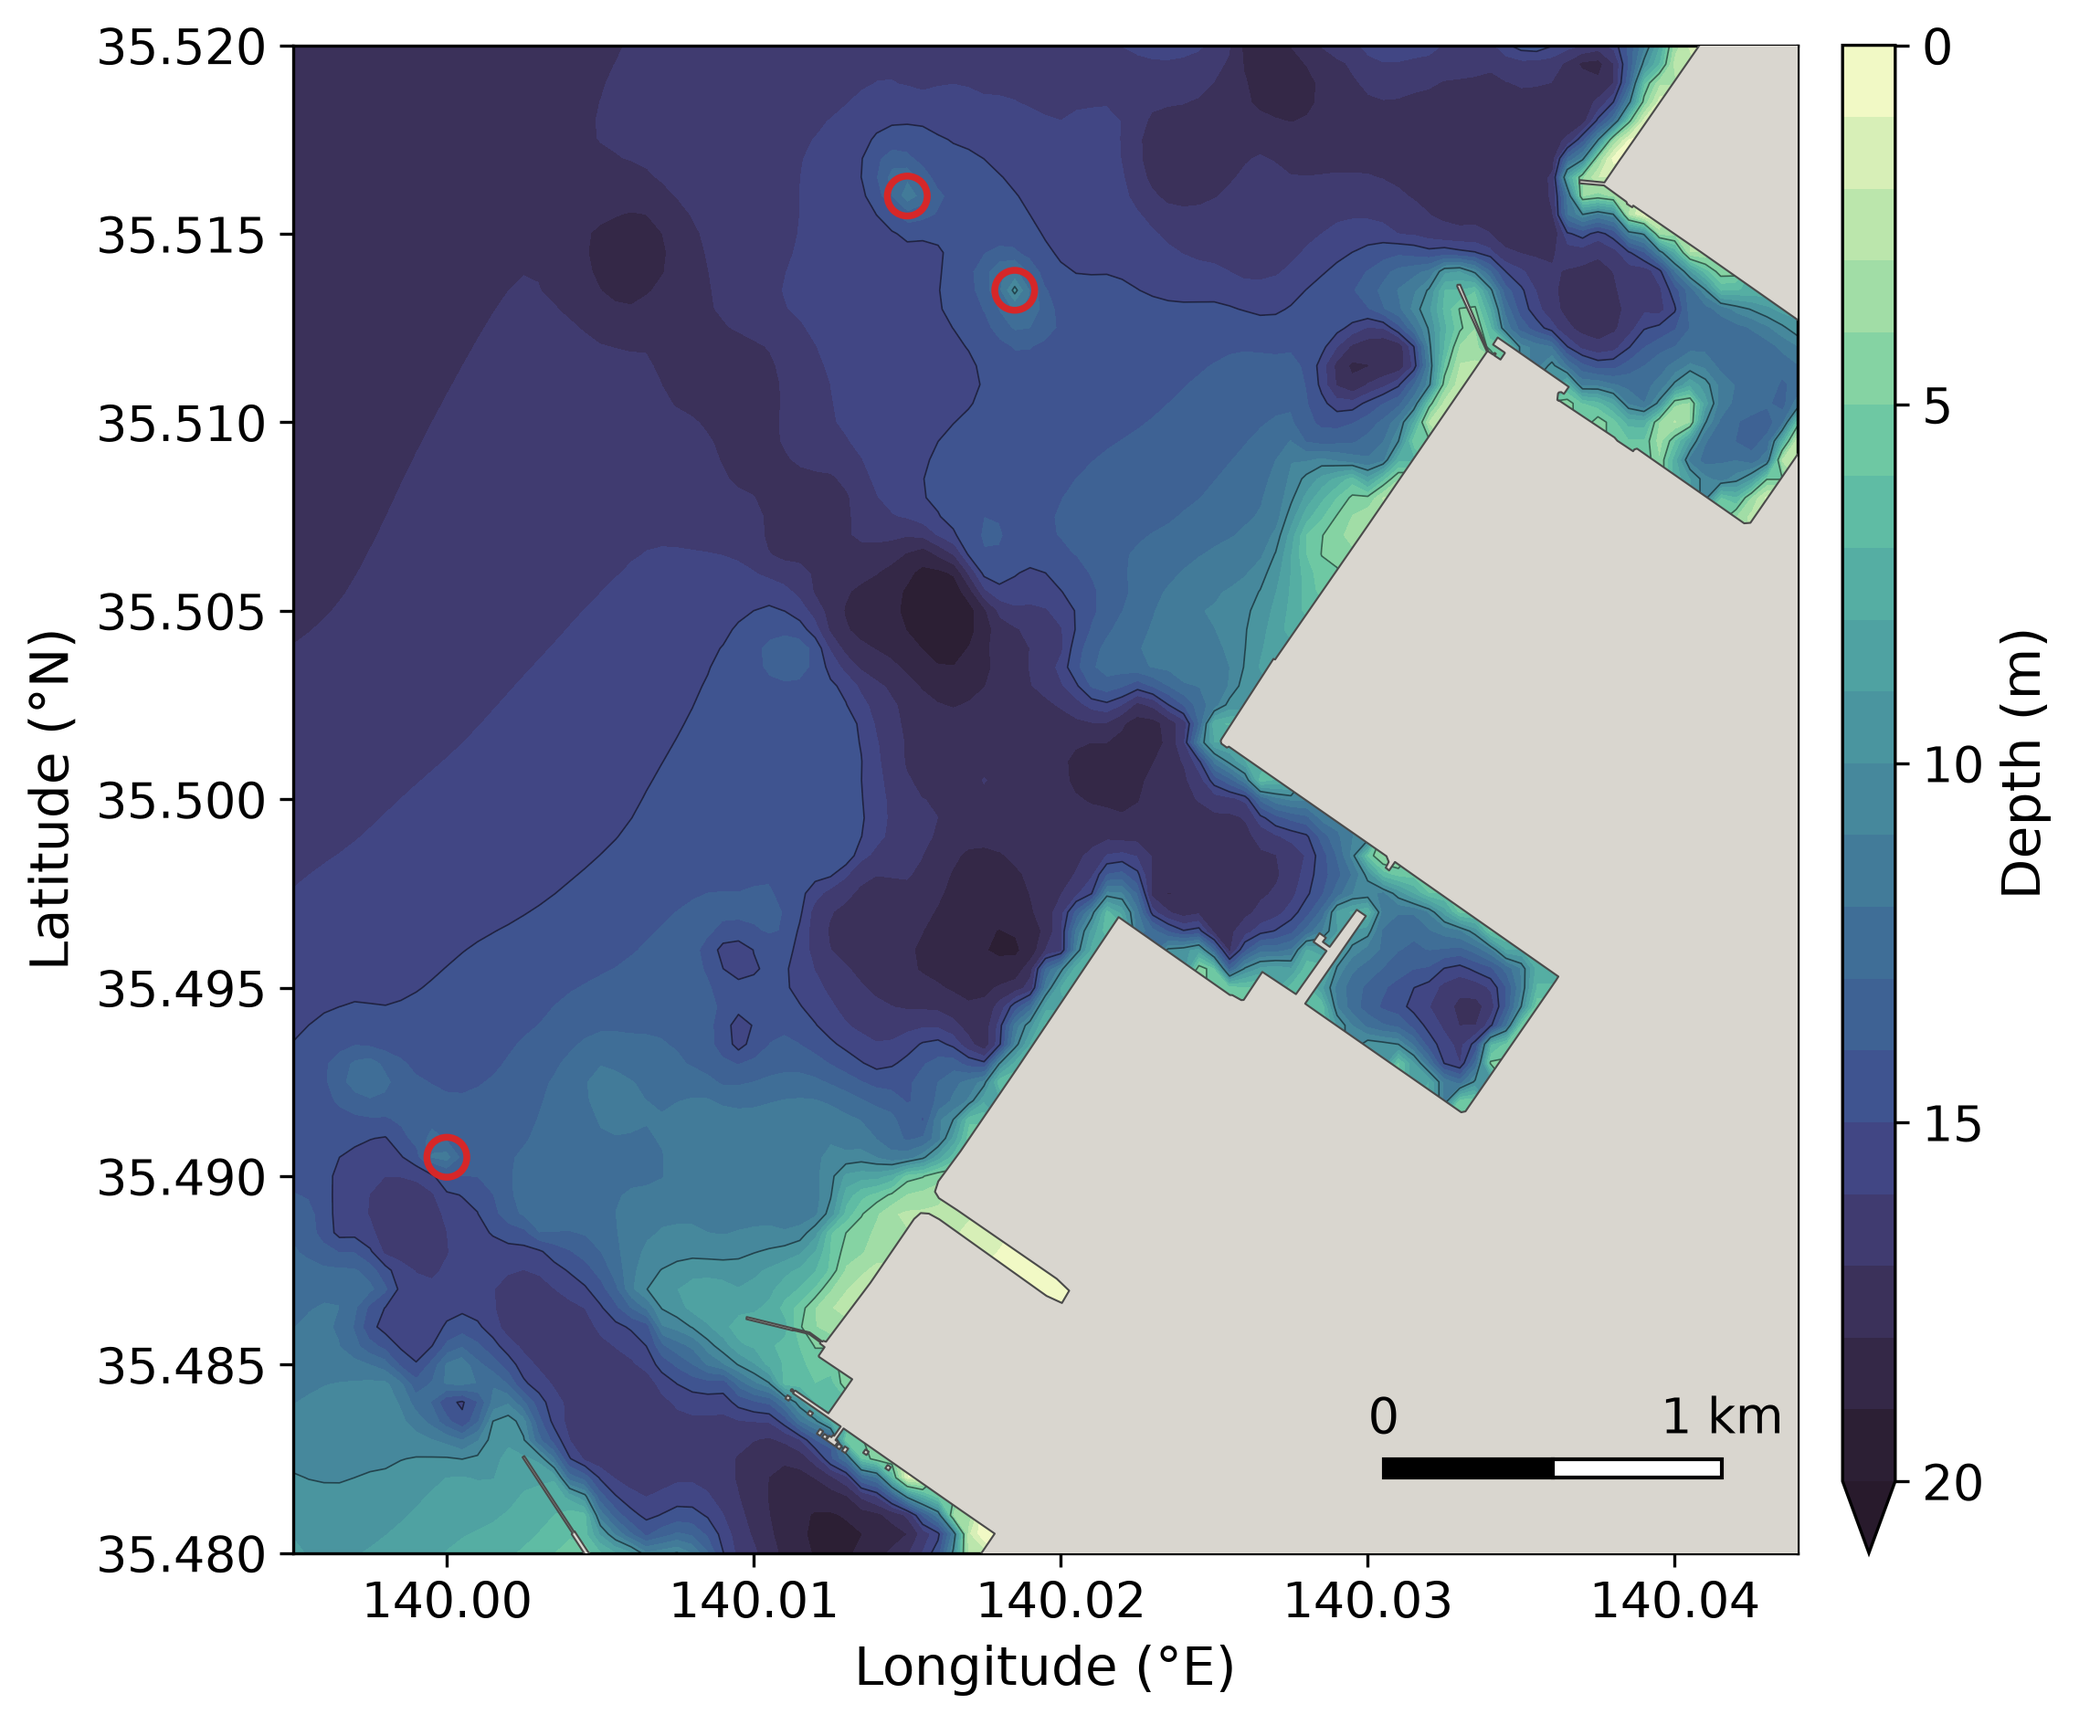
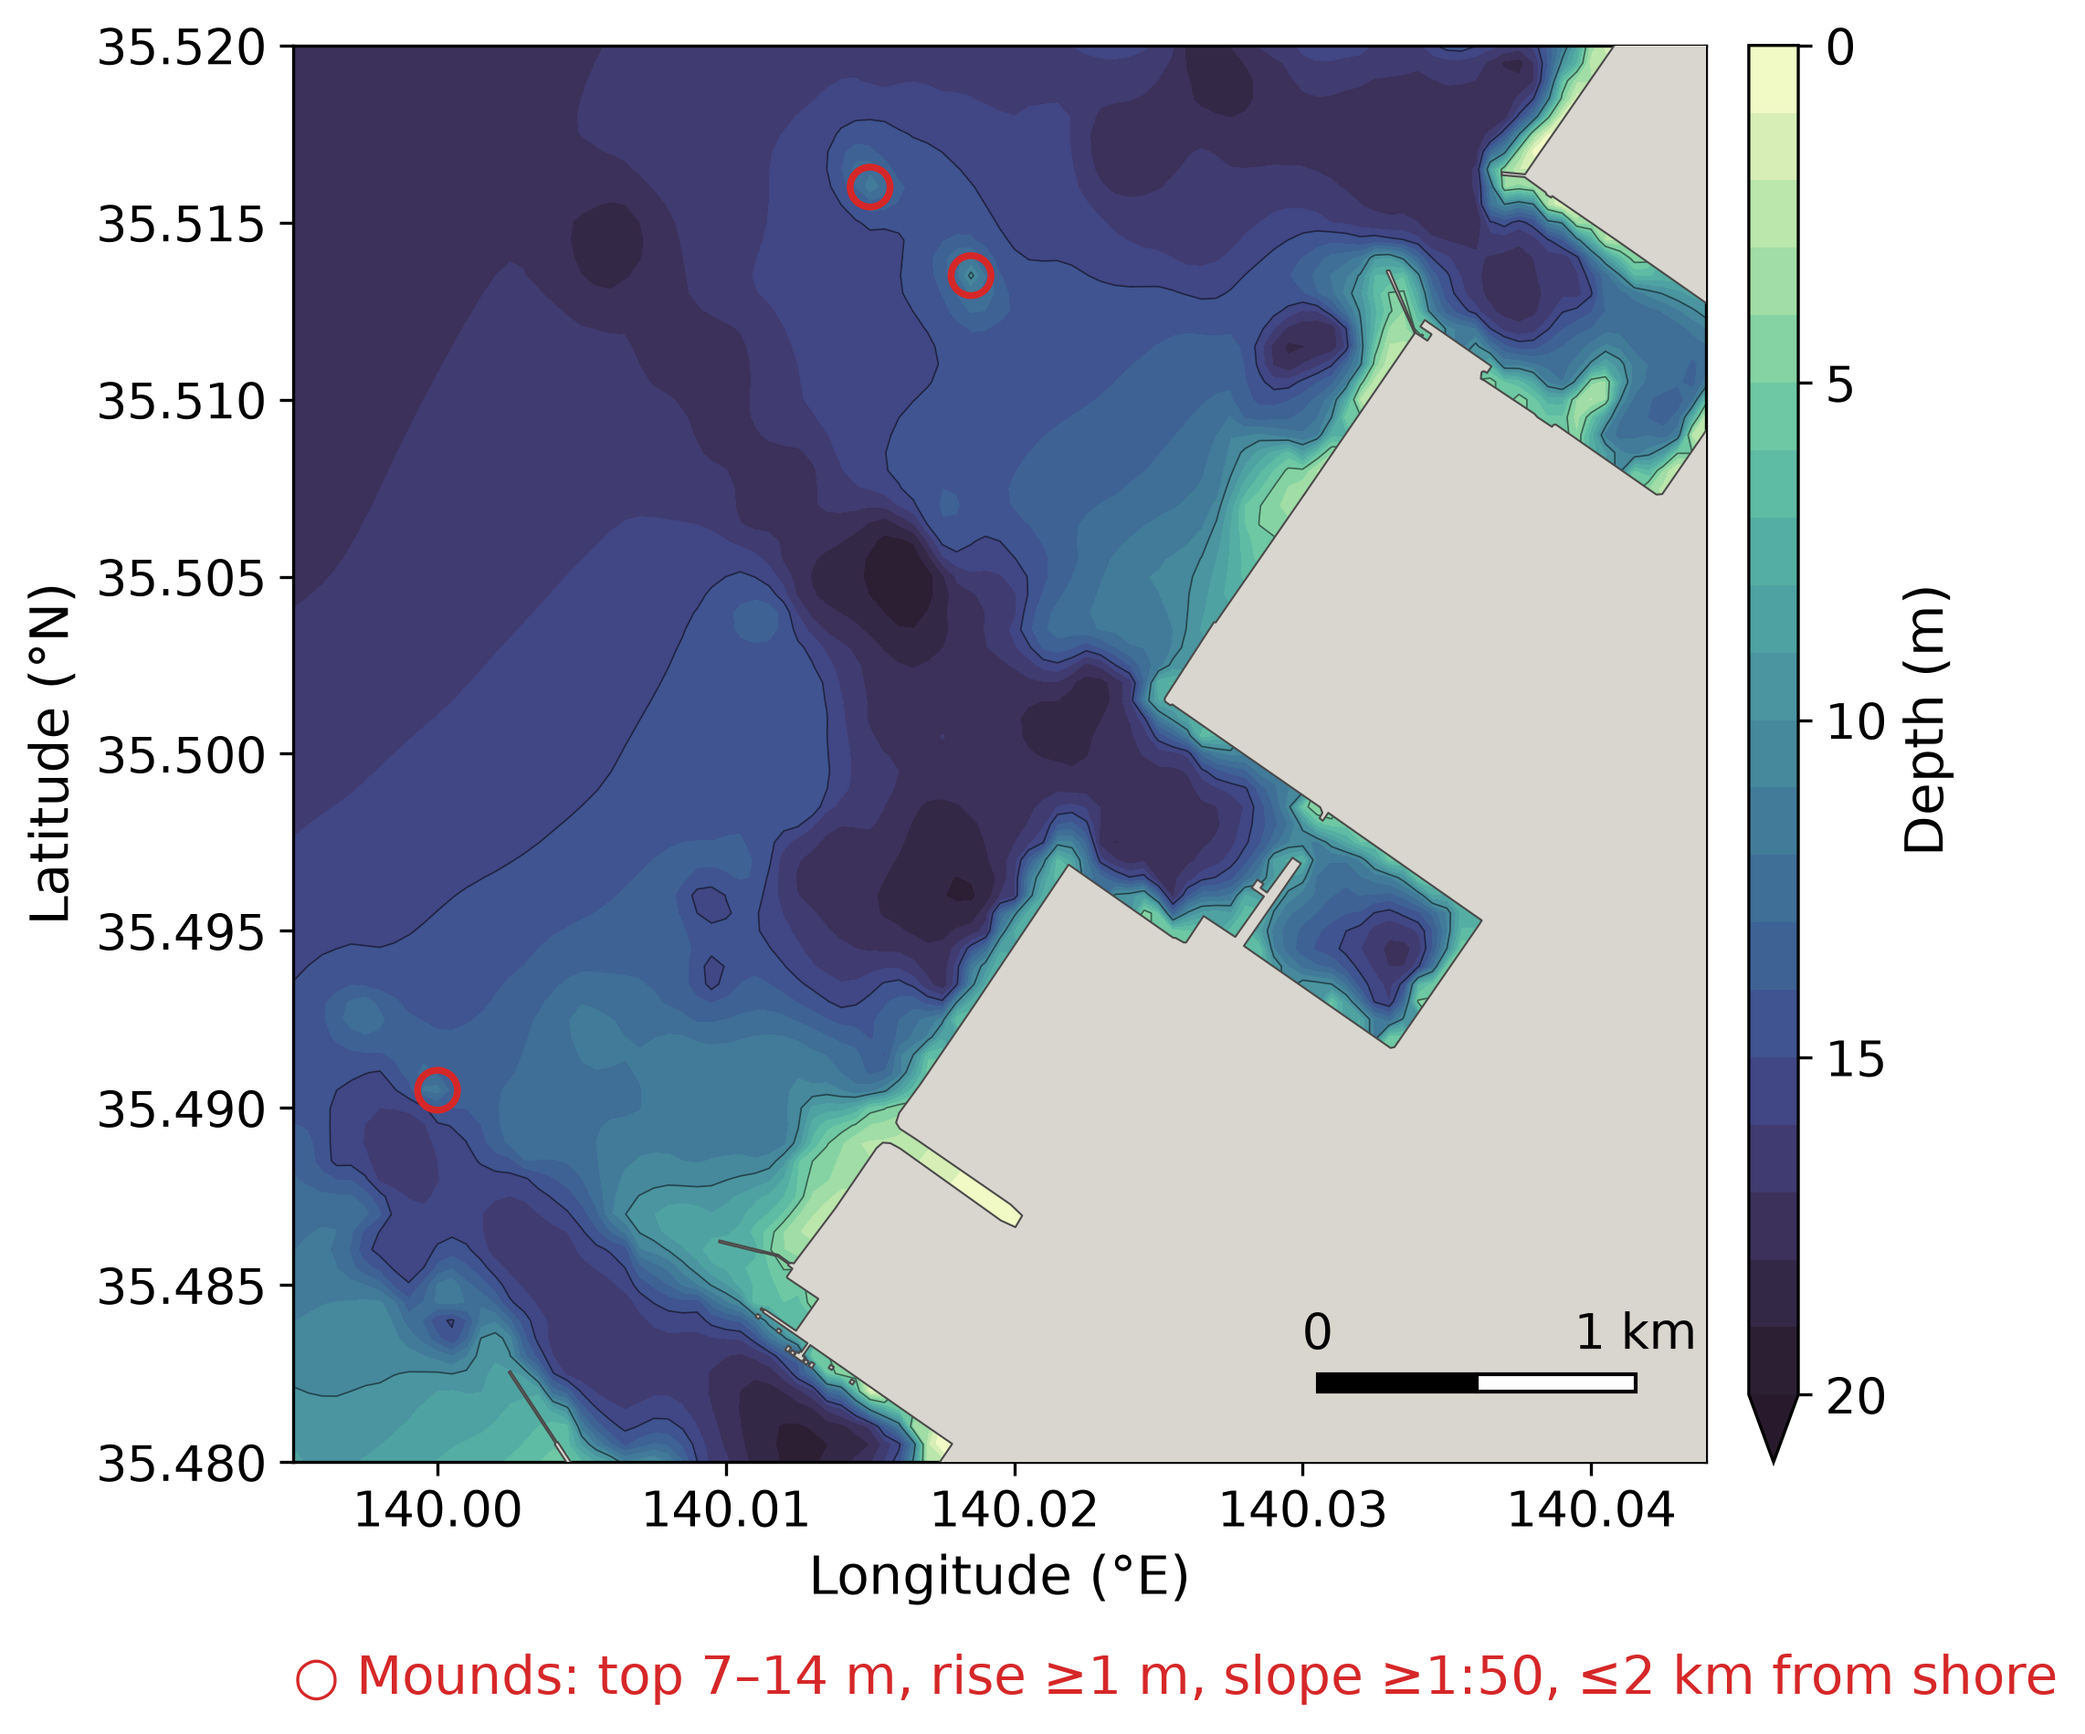
Mound criteria written under the map by default (--no-mound-label to omit)
One short English line in the mound colour at the label font size, built from
the arguments (depth range, rise, slope, width if given, shore distance).

Claude-Session: https://claude.ai/code/session_01MhU6iDzaQKBG9cKa3nrSvL

diff --git a/scripts/plot_depth_map.py b/scripts/plot_depth_map.py
@@ -87,6 +87,9 @@ def main() -> int:
     # jsasaki 2026-10-24: owner: steep mounds only (sandy tops in a muddy seabed)
     ap.add_argument("--mound-min-slope", type=float, default=0.0,
                     help="minimum mean flank slope = prominence / (base width / 2) (m/m)")
+    # jsasaki 2026-10-24: owner: criteria text under the map by default
+    ap.add_argument("--no-mound-label", action="store_true",
+                    help="do not write the mound criteria under the map")
     ap.add_argument("--mound-width", type=float, nargs=2, default=None, metavar=("MIN", "MAX"),
                     help="base width range (m, equivalent-circle diameter)")
     #<--- jsasaki 2026-10-24
@@ -172,6 +175,18 @@ def main() -> int:
         if found:
             ax.scatter([m["lon"] for m in found], [m["lat"] for m in found], s=110,
                        facecolors="none", edgecolors="#d62728", linewidths=1.8, zorder=12)
+        #---> jsasaki 2026-10-24: short criteria line under the map (default on)
+        if not args.no_mound_label:
+            z0, z1 = args.mound_depth
+            parts = [f"top {z0:g}\u2013{z1:g} m", f"rise \u2265{args.mound_prominence:g} m"]
+            if args.mound_min_slope > 0:
+                parts.append(f"slope \u22651:{1 / args.mound_min_slope:.0f}")
+            if args.mound_width:
+                parts.append(f"width {args.mound_width[0]:g}\u2013{args.mound_width[1]:g} m")
+            parts.append(f"\u2264{args.mound_shore_dist / 1000:g} km from shore")
+            ax.text(0.0, -0.135, "\u25cb Mounds: " + ", ".join(parts), transform=ax.transAxes,
+                    ha="left", va="top", fontsize=args.font_size or 12, color="#d62728")
+        #<--- jsasaki 2026-10-24
         if args.mound_csv:
             args.mound_csv.parent.mkdir(parents=True, exist_ok=True)
             with open(args.mound_csv, "w", newline="") as f:
